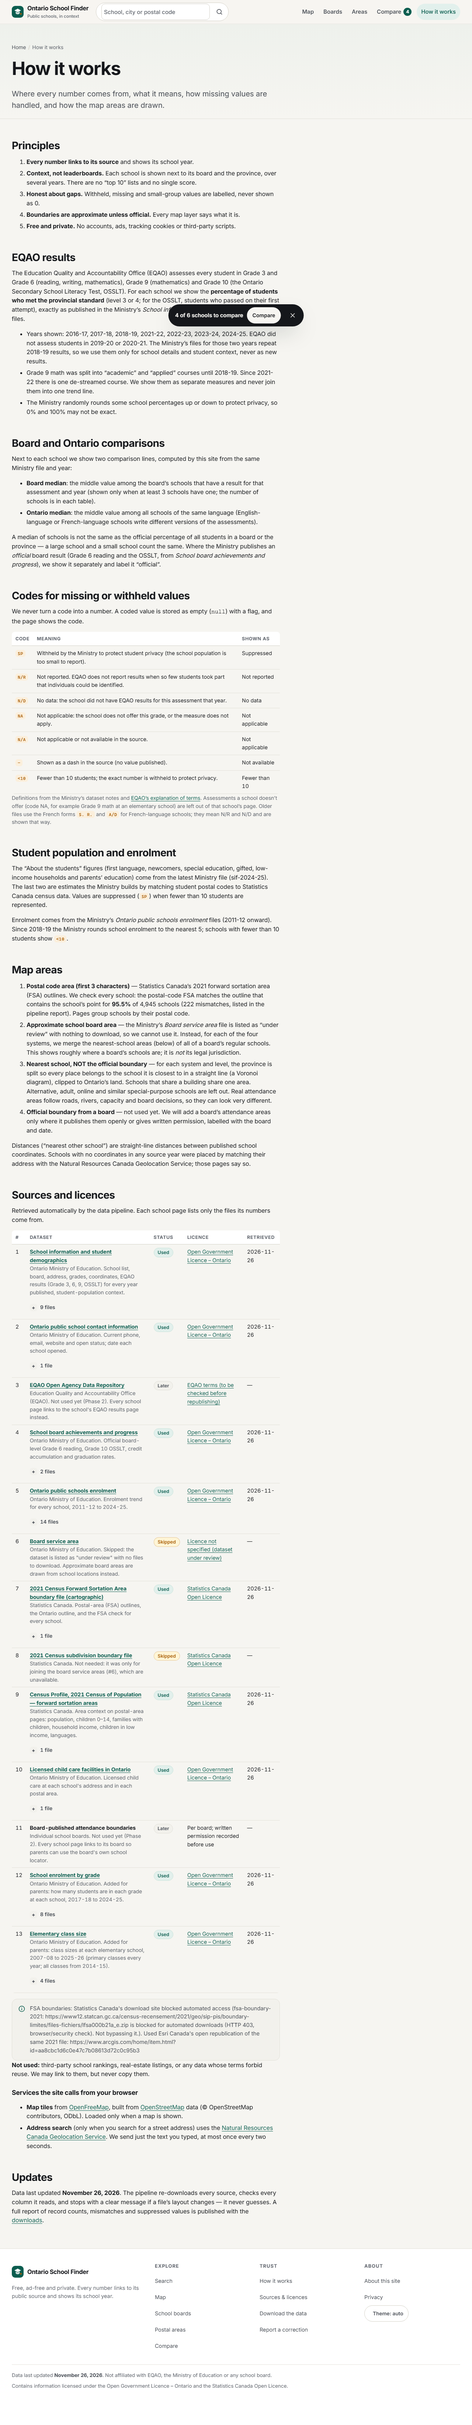
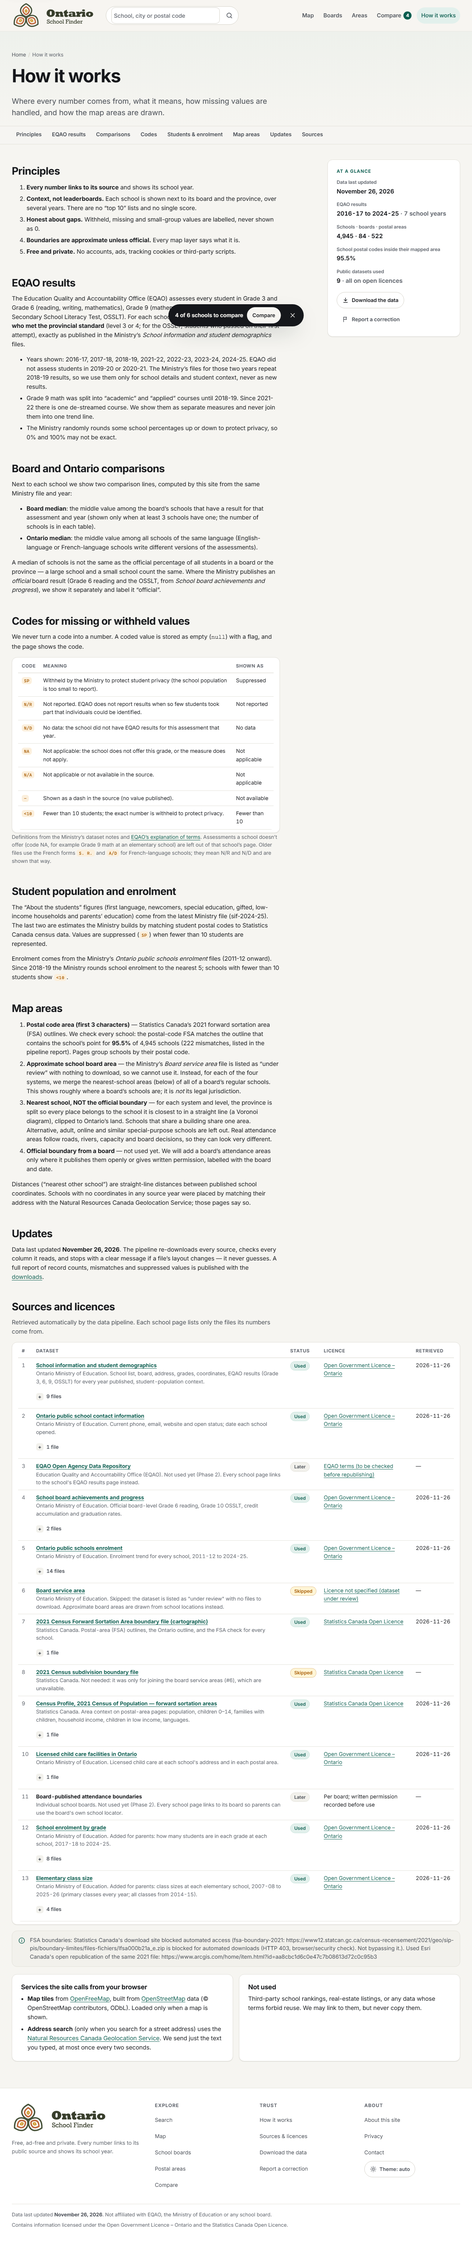
Same layout for How it works, About, Data, Corrections, Search and 404 (#8)
How it works, About, Data, Corrections, Search and 404 brought to the same layout: reading column with an at-a-glance card, section nav, full-width tables, who-fixes-what cards, list beside a sticky map.

diff --git a/site/templates/methodology.html b/site/templates/methodology.html
@@ -6,8 +6,22 @@
   <h1>How it works</h1>
   <p class="lede" style="margin:0">Where every number comes from, what it means, how missing values are handled, and how the map areas are drawn.</p>
 </div></div>
-<div class="wrap">
-<div class="prose">
+
+<nav class="subnav" aria-label="On this page">
+  <div class="wrap">
+    <a href="#principles">Principles</a>
+    <a href="#eqao">EQAO results</a>
+    <a href="#medians">Comparisons</a>
+    <a href="#codes">Codes</a>
+    <a href="#context">Students &amp; enrolment</a>
+    <a href="#boundaries">Map areas</a>
+    <a href="#updates">Updates</a>
+    <a href="#sources">Sources</a>
+  </div>
+</nav>
+
+<div class="wrap doc">
+<div class="prose doc-main">
 <h2 id="principles">Principles</h2>
 <ol>
   <li><strong>Every number links to its source</strong> and shows its school year.</li>
@@ -35,10 +49,10 @@
 
 <h2 id="codes">Codes for missing or withheld values</h2>
 <p>We never turn a code into a number. A coded value is stored as empty (<code>null</code>) with a flag, and the page shows the code.</p>
-<div class="table-wrap"><table>
+<div class="card card-table"><div class="table-wrap"><table>
   <thead><tr><th scope="col">Code</th><th scope="col">Meaning</th><th scope="col">Shown as</th></tr></thead>
   <tbody>{% for k, c in codes %}<tr><td><span class="code">{{ k }}</span></td><td>{{ c.explain }}</td><td>{{ c.label }}</td></tr>{% endfor %}</tbody>
-</table></div>
+</table></div></div>
 <p class="small muted">Definitions from the Ministry’s dataset notes and <a href="https://www.eqao.com/explanation-of-terms/" rel="noopener">EQAO’s explanation of terms</a>. Assessments a school doesn’t offer (code NA, for example Grade 9 math at an elementary school) are left out of that school’s page. Older files use the French forms <span class="code">S. R.</span> and <span class="code">A/D</span> for French-language schools; they mean N/R and N/D and are shown that way.</p>
 
 <h2 id="context">Student population and enrolment</h2>
@@ -54,32 +68,61 @@
 </ol>
 <p>Distances (“nearest other school”) are straight-line distances between published school coordinates. Schools with no coordinates in any source year were placed by matching their address with the Natural Resources Canada Geolocation Service; those pages say so.</p>
 
-<h2 id="sources">Sources and licences</h2>
-<p>Retrieved automatically by the data pipeline. Each school page lists only the files its numbers come from.</p>
-<div class="table-wrap"><table class="stack-table">
-  <thead><tr><th scope="col">#</th><th scope="col">Dataset</th><th scope="col">Status</th><th scope="col">Licence</th><th scope="col">Retrieved</th></tr></thead>
-  <tbody>
-  {% for d in datasets %}
-    <tr id="dataset-{{ d.key }}"><td class="tnum">{{ d.brief_no }}</td>
-      <td><strong>{% if d.landing %}<a href="{{ d.landing }}" rel="noopener">{{ d.title }}</a>{% else %}{{ d.title }}{% endif %}</strong><div class="small muted">{{ d.publisher }}. {{ d.used_for }}</div>
-        {% if d.files %}<details class="data-table"><summary>{{ d.files|length }} file{{ "" if d.files|length == 1 else "s" }}</summary><ul class="small">{% for f in d.files %}<li><a href="{{ f.url }}" rel="noopener">{{ f.source_id }}</a>{% if f.year %} — {{ f.year }}{% endif %}{% if f.retrieved %}, retrieved {{ f.retrieved }}{% endif %}{% if f.note %}. {{ f.note }}{% endif %}</li>{% endfor %}</ul></details>{% endif %}</td>
-      <td data-label="Status">{% if d.status == "used" %}<span class="badge badge-brand">Used</span>{% elif d.status == "skipped" %}<span class="badge badge-warn">Skipped</span>{% else %}<span class="badge">Later</span>{% endif %}</td>
-      <td data-label="Licence">{% if d.licence_url %}<a href="{{ d.licence_url }}" rel="noopener">{{ d.licence }}</a>{% else %}{{ d.licence }}{% endif %}</td>
-      <td class="tnum" data-label="Retrieved">{{ d.retrieved or "—" }}</td></tr>
-  {% endfor %}
-  </tbody>
-</table></div>
-{% if meta.notes %}<div class="note" style="margin-top:16px">{{ icon("info") }}<div>{% for n in meta.notes %}<p>{{ n }}</p>{% endfor %}</div></div>{% endif %}
-<p><strong>Not used:</strong> third-party school rankings, real-estate listings, or any data whose terms forbid reuse. We may link to them, but never copy them.</p>
-
-<h3 id="services">Services the site calls from your browser</h3>
-<ul>
-  <li><strong>Map tiles</strong> from <a href="https://openfreemap.org/" rel="noopener">OpenFreeMap</a>, built from <a href="https://www.openstreetmap.org/copyright" rel="noopener">OpenStreetMap</a> data (© OpenStreetMap contributors, ODbL). Loaded only when a map is shown.</li>
-  <li><strong>Address search</strong> (only when you search for a street address) uses the <a href="https://natural-resources.canada.ca/maps-tools-and-publications/maps/geolocation-service" rel="noopener">Natural Resources Canada Geolocation Service</a>. We send just the text you typed, at most once every two seconds.</li>
-</ul>
-
 <h2 id="updates">Updates</h2>
 <p>Data last updated <strong>{{ meta.data_updated_human }}</strong>. The pipeline re-downloads every source, checks every column it reads, and stops with a clear message if a file’s layout changes — it never guesses. A full report of record counts, mismatches and suppressed values is published with the <a href="/data/">downloads</a>.</p>
 </div>
+
+<aside class="doc-aside" aria-label="At a glance">
+  <div class="card glance-card">
+    <p class="eyebrow">At a glance</p>
+    <dl class="glance">
+      <div><dt>Data last updated</dt><dd>{{ meta.data_updated_human }}</dd></div>
+      <div><dt>EQAO results</dt><dd>{{ meta.eqao_years[0] }} to {{ meta.eqao_years[-1] }} <span class="muted">· {{ meta.eqao_years|length }} school years</span></dd></div>
+      <div><dt>Schools · boards · postal areas</dt><dd>{{ "{:,}".format(meta.counts.schools) }} · {{ meta.counts.boards }} · {{ meta.counts.fsas }}</dd></div>
+      <div><dt>School postal codes inside their mapped area</dt><dd>{{ fsa_check_rate }}</dd></div>
+      <div><dt>Public datasets used</dt><dd>{{ datasets|selectattr("status", "equalto", "used")|list|length }} <span class="muted">· all on open licences</span></dd></div>
+    </dl>
+    <div class="doc-actions">
+      <a class="btn btn-sm" href="/data/">{{ icon("download") }}Download the data</a>
+      <a class="btn btn-sm btn-ghost" href="/corrections/">{{ icon("flag") }}Report a correction</a>
+    </div>
+  </div>
+</aside>
 </div>
+
+<section class="block" id="sources">
+  <div class="wrap">
+    <h2>Sources and licences</h2>
+    <p class="block-intro">Retrieved automatically by the data pipeline. Each school page lists only the files its numbers come from.</p>
+    <div class="card card-table">
+    <div class="table-wrap"><table class="stack-table src-table">
+      <thead><tr><th scope="col">#</th><th scope="col">Dataset</th><th scope="col">Status</th><th scope="col">Licence</th><th scope="col">Retrieved</th></tr></thead>
+      <tbody>
+      {% for d in datasets %}
+        <tr id="dataset-{{ d.key }}"><td class="tnum">{{ d.brief_no }}</td>
+          <td><strong>{% if d.landing %}<a href="{{ d.landing }}" rel="noopener">{{ d.title }}</a>{% else %}{{ d.title }}{% endif %}</strong><div class="small muted">{{ d.publisher }}. {{ d.used_for }}</div>
+            {% if d.files %}<details class="data-table"><summary>{{ d.files|length }} file{{ "" if d.files|length == 1 else "s" }}</summary><ul class="small">{% for f in d.files %}<li><a href="{{ f.url }}" rel="noopener">{{ f.source_id }}</a>{% if f.year %} — {{ f.year }}{% endif %}{% if f.retrieved %}, retrieved {{ f.retrieved }}{% endif %}{% if f.note %}. {{ f.note }}{% endif %}</li>{% endfor %}</ul></details>{% endif %}</td>
+          <td data-label="Status">{% if d.status == "used" %}<span class="badge badge-brand">Used</span>{% elif d.status == "skipped" %}<span class="badge badge-warn">Skipped</span>{% else %}<span class="badge">Later</span>{% endif %}</td>
+          <td data-label="Licence">{% if d.licence_url %}<a href="{{ d.licence_url }}" rel="noopener">{{ d.licence }}</a>{% else %}{{ d.licence }}{% endif %}</td>
+          <td class="tnum nowrap" data-label="Retrieved">{{ d.retrieved or "—" }}</td></tr>
+      {% endfor %}
+      </tbody>
+    </table></div>
+    </div>
+    {% if meta.notes %}<div class="note" style="margin-top:16px">{{ icon("info") }}<div>{% for n in meta.notes %}<p>{{ n }}</p>{% endfor %}</div></div>{% endif %}
+    <div class="grid grid-2" style="margin-top:20px">
+      <div class="card">
+        <h3 id="services">Services the site calls from your browser</h3>
+        <ul class="plain-list">
+          <li><strong>Map tiles</strong> from <a href="https://openfreemap.org/" rel="noopener">OpenFreeMap</a>, built from <a href="https://www.openstreetmap.org/copyright" rel="noopener">OpenStreetMap</a> data (© OpenStreetMap contributors, ODbL). Loaded only when a map is shown.</li>
+          <li><strong>Address search</strong> (only when you search for a street address) uses the <a href="https://natural-resources.canada.ca/maps-tools-and-publications/maps/geolocation-service" rel="noopener">Natural Resources Canada Geolocation Service</a>. We send just the text you typed, at most once every two seconds.</li>
+        </ul>
+      </div>
+      <div class="card">
+        <h3>Not used</h3>
+        <p style="margin:0">Third-party school rankings, real-estate listings, or any data whose terms forbid reuse. We may link to them, but never copy them.</p>
+      </div>
+    </div>
+  </div>
+</section>
 {% endblock %}

diff --git a/site/templates/corrections.html b/site/templates/corrections.html
@@ -6,20 +6,33 @@
   <h1>Report a correction</h1>
   <p class="lede" style="margin:0">Thank you for helping keep this accurate. Here is who can fix what.</p>
 </div></div>
-<div class="wrap"><div class="prose">
-  <div class="card" data-correction-school hidden style="margin:24px 0"></div>
-  <h2>School name, address, phone, website or grades</h2>
-  <p>These come from school boards through the Ministry of Education’s school list. Please contact the <strong>school board</strong> (each school page links to it). Changes appear here after the Ministry publishes its next list and the site is rebuilt.</p>
-  <h2>EQAO results</h2>
-  <p>Results are published by <a href="https://www.eqao.com/" rel="noopener">EQAO</a> and the Ministry. If a number here differs from the school’s report on EQAO’s site for the same year, that is our mistake — please tell us.</p>
-  <h2>Something this site got wrong</h2>
-  {% if corrections_url or contact_email %}
-  <p>{% if corrections_url %}<a class="btn btn-primary" href="{{ corrections_url }}" rel="noopener" data-correction-link>{{ icon("flag") }}Open a correction request</a>{% endif %}
-     {% if contact_email %}<a class="btn" href="mailto:{{ contact_email }}?subject=Correction" data-correction-mail>{{ icon("mail") }}Email {{ contact_email }}</a>{% endif %}</p>
-  <p class="small muted">Please include the school’s name or number (BSID), what is wrong, and where you saw the right value.</p>
-  {% else %}
-  <p>A public correction form is being set up. Until then, please send corrections about school details to the school board, and about results to EQAO.</p>
-  {% endif %}
-</div></div>
+<section class="block"><div class="wrap">
+  <div class="card" data-correction-school hidden style="margin:0 0 20px;max-width:760px"></div>
+  <div class="grid grid-3 fix-grid">
+    <div class="card">
+      <h2 class="card-title">{{ icon("building", "card-ic") }}School name, address, phone, website or grades</h2>
+      <p>These come from school boards through the Ministry of Education’s school list. Changes appear here after the Ministry publishes its next list and the site is rebuilt.</p>
+      <p class="fix-who"><span class="muted">Who fixes it:</span> <strong>the school board</strong>. Each school page links to its board.</p>
+    </div>
+    <div class="card">
+      <h2 class="card-title">{{ icon("check", "card-ic") }}EQAO results</h2>
+      <p>Results are published by <a href="https://www.eqao.com/" rel="noopener">EQAO</a> and the Ministry. If a number here differs from the school’s report on EQAO’s site for the same year, that is our mistake — please tell us.</p>
+      <p class="fix-who"><span class="muted">Who fixes it:</span> <strong>EQAO</strong> for their report, <strong>us</strong> if this site differs from it.</p>
+    </div>
+    <div class="card fix-us">
+      <h2 class="card-title">{{ icon("flag", "card-ic") }}Something this site got wrong</h2>
+      {% if corrections_url or contact_email %}
+      <p>Please include the school’s name or number (BSID), what is wrong, and where you saw the right value.</p>
+      <div class="doc-actions">
+        {% if corrections_url %}<a class="btn btn-primary" href="{{ corrections_url }}" rel="noopener" data-correction-link>{{ icon("flag") }}Open a correction request</a>{% endif %}
+        {% if contact_email %}<a class="btn" href="mailto:{{ contact_email }}?subject=Correction" data-correction-mail>{{ icon("mail") }}Email {{ contact_email }}</a>{% endif %}
+      </div>
+      {% else %}
+      <p>A public correction form is being set up. Until then, please send corrections about school details to the school board, and about results to EQAO.</p>
+      {% endif %}
+      <p class="fix-who"><span class="muted">Who fixes it:</span> <strong>us</strong>, quickly.</p>
+    </div>
+  </div>
+</div></section>
 {% endblock %}
 {% block scripts %}<script type="module" src="{{ asset('js/corrections.js') }}"></script>{% endblock %}

diff --git a/site/templates/data.html b/site/templates/data.html
@@ -7,23 +7,32 @@
   <p class="lede" style="margin:0">Open data in, open data out. Everything on this site is available as CSV and JSON, with a source id on every row.</p>
 </div></div>
 <section class="block"><div class="wrap">
-  <div class="grid grid-2">
+  <div class="grid grid-4">
     {% for d in downloads %}
-    <a class="card" href="{{ d.href }}" download style="text-decoration:none;color:inherit">
+    <a class="card download-card" href="{{ d.href }}" download style="text-decoration:none;color:inherit">
       <h3>{{ icon("download", "card-ic") }}{{ d.title }}</h3>
-      <p class="muted" style="margin:0 0 6px">{{ d.desc }}</p>
+      <p class="muted" style="margin:0 0 10px">{{ d.desc }}</p>
       <span class="badge">{{ d.size }}</span>
     </a>
     {% endfor %}
   </div>
-  <div class="prose" style="margin-top:32px">
-    <h2>Licence and attribution</h2>
-    <p>The source data is published under the <a href="https://www.ontario.ca/page/open-government-licence-ontario" rel="noopener">Open Government Licence – Ontario</a> and the <a href="https://www.statcan.gc.ca/en/reference/licence" rel="noopener">Statistics Canada Open Licence</a>. If you reuse these files, please keep the source ids and include:</p>
-    <pre style="white-space:pre-wrap;background:var(--surface);border:1px solid var(--line);border-radius:var(--r-1);padding:14px;font-size:.85rem">Contains information licensed under the Open Government Licence – Ontario.
+
+  <div class="doc" style="margin-top:40px">
+    <div class="prose doc-main">
+      <h2 id="licence">Licence and attribution</h2>
+      <p>The source data is published under the <a href="https://www.ontario.ca/page/open-government-licence-ontario" rel="noopener">Open Government Licence – Ontario</a> and the <a href="https://www.statcan.gc.ca/en/reference/licence" rel="noopener">Statistics Canada Open Licence</a>. If you reuse these files, please keep the source ids and include the attribution text in the box.</p>
+      <p>Each row’s <code>source_id</code> matches a line in <code>sources.csv</code>, which lists the original URL, licence and retrieval date. Coded values (suppressed, not reported, not applicable) are empty with a <code>code</code> column — never 0. See <a href="/methodology/">How it works</a>.</p>
+      <p>Per-school JSON files are at <code>/data/schools/&lt;BSID&gt;.json</code>, and the full pipeline report is at <a href="/data/report.md">/data/report.md</a>.</p>
+    </div>
+    <aside class="doc-aside" aria-label="Attribution to include">
+      <div class="card glance-card">
+        <p class="eyebrow">Attribution to include</p>
+        <pre class="attribution" id="attribution">Contains information licensed under the Open Government Licence – Ontario.
 Adapted from Statistics Canada, 2021 Census of Population and 2021 boundary files. This does not constitute an endorsement by Statistics Canada of this product.
 Compiled by Ontario School Finder ({{ site_url }}).</pre>
-    <p>Each row’s <code>source_id</code> matches a line in <code>sources.csv</code>, which lists the original URL, licence and retrieval date. Coded values (suppressed, not reported, not applicable) are empty with a <code>code</code> column — never 0. See <a href="/methodology/">How it works</a>.</p>
-    <p>Per-school JSON files are at <code>/data/schools/&lt;BSID&gt;.json</code>, and the full pipeline report is at <a href="/data/report.md">/data/report.md</a>.</p>
+        <div class="doc-actions"><button class="btn btn-sm" type="button" data-copy="#attribution"><span>Copy the text</span></button></div>
+      </div>
+    </aside>
   </div>
 </div></section>
 {% endblock %}

diff --git a/site/templates/about.html b/site/templates/about.html
@@ -6,19 +6,19 @@
   <h1>About Ontario School Finder</h1>
   <p class="lede" style="margin:0">A free, independent tool that puts Ontario’s public school data in one place, in plain language, with the sources one click away.</p>
 </div></div>
-<div class="wrap"><div class="prose">
-<h2>What this is</h2>
+<div class="wrap doc"><div class="prose doc-main">
+<h2 id="what">What this is</h2>
 <p>Choosing or getting to know a school is a big decision, and the public information about Ontario schools is spread across spreadsheets from several government offices. This site gathers it, cleans it carefully, and shows each school next to its board and the province over time — without ranking anyone.</p>
 <p>It covers every publicly funded school in Ontario: English and French, public and Catholic, elementary and secondary. Private schools are not included because the Ministry does not publish comparable data for them.</p>
 
-<h2>Who runs it</h2>
+<h2 id="who">Who runs it</h2>
 <p>{{ operator }} It is not affiliated with EQAO, the Ministry of Education, any school board, or any real-estate or ranking company.</p>
 {% if contact_email %}
 <h2 id="contact">Contact</h2>
 <p>Questions, ideas or a correction? Email <a href="mailto:{{ contact_email }}?subject=Ontario%20School%20Finder">{{ contact_email }}</a>. For a correction, please include the school’s name or number and where you saw the right value — or start from the school’s own page with “Report a correction”.</p>
 {% endif %}
 
-<h2>Why it’s free</h2>
+<h2 id="free">Why it’s free</h2>
 <p>It is built on open data that taxpayers already paid for, and it costs very little to run: there is no server-side database and no accounts. There are no ads and there never will be. The cleaned data is <a href="/data/">free to download</a> under the same open licences.</p>
 
 <h2 id="privacy">Privacy</h2>
@@ -31,7 +31,26 @@
   <li>Our web server keeps standard short-lived access logs (IP address, page, time) for security and reliability. We don’t sell or share them.</li>
 </ul>
 
-<h2>Corrections</h2>
+<h2 id="corrections">Corrections</h2>
 <p>Found something wrong? See <a href="/corrections/">how to report a correction</a>{% if contact_email %} or email <a href="mailto:{{ contact_email }}?subject=Correction">{{ contact_email }}</a>{% endif %}. School contact details come from school boards; results come from EQAO and the Ministry. We fix our own mistakes quickly and pass source errors on to the right office.</p>
-</div></div>
+</div>
+
+<aside class="doc-aside" aria-label="At a glance">
+  <div class="card glance-card">
+    <p class="eyebrow">At a glance</p>
+    <ul class="isnt">
+      <li class="yes">{{ icon("check") }}<span>Free, with no ads and no accounts</span></li>
+      <li class="yes">{{ icon("check") }}<span>No tracking cookies or analytics</span></li>
+      <li class="yes">{{ icon("check") }}<span>Every number links to its public source</span></li>
+      <li class="yes">{{ icon("check") }}<span>No rankings and no single score</span></li>
+      <li class="yes">{{ icon("check") }}<span>All {{ "{:,}".format(meta.counts.schools) }} publicly funded schools, English and French</span></li>
+    </ul>
+    <div class="doc-actions">
+      <a class="btn btn-sm" href="/methodology/">{{ icon("info") }}How it works</a>
+      <a class="btn btn-sm" href="/data/">{{ icon("download") }}Download the data</a>
+      {% if contact_email %}<a class="btn btn-sm btn-ghost" href="mailto:{{ contact_email }}?subject=Ontario%20School%20Finder">{{ icon("mail") }}Email us</a>{% endif %}
+    </div>
+  </div>
+</aside>
+</div>
 {% endblock %}

diff --git a/site/static/css/app.css b/site/static/css/app.css
@@ -684,3 +684,46 @@ a.card:hover { border-color: var(--brand-soft); box-shadow: var(--shadow-2); tra
   .az { display: none !important; }
   .school-list.is-az { columns: 2; }
 }
+
+/* ---------- text pages (How it works, About, Data): a readable column plus an "at a glance" card ---------- */
+.doc { display: grid; gap: 28px 56px; }
+@media (min-width: 1100px) {
+  .doc { grid-template-columns: minmax(0, 72ch) minmax(280px, 360px); justify-content: space-between; align-items: start; }
+  .doc-aside { position: sticky; top: calc(var(--header-h) + 20px); margin-top: 2.6em; }
+  .subnav ~ .doc .doc-aside { top: calc(var(--header-h) + 68px); }
+}
+.glance-card .eyebrow { margin-bottom: 12px; }
+.glance { display: grid; gap: 14px; margin: 0 0 18px; }
+.glance div { min-width: 0; }
+.glance dt { color: var(--ink-3); font-size: .8rem; font-weight: 600; }
+.glance dd { margin: 2px 0 0; font-weight: 650; font-variant-numeric: tabular-nums; }
+.glance-card .isnt { margin-bottom: 18px; font-size: .95rem; }
+.doc-actions { display: flex; flex-wrap: wrap; gap: 8px; }
+.card-table { padding: 4px 16px 8px; }
+.nowrap { white-space: nowrap; }
+.src-table td:first-child { color: var(--ink-3); width: 2.5em; }
+.plain-list { padding-left: 1.1em; margin: 0; }
+.plain-list li + li { margin-top: 8px; }
+.attribution { white-space: pre-wrap; overflow-wrap: anywhere; background: var(--surface-2); border: 1px solid var(--line); border-radius: var(--r-1); padding: 12px 14px; font: .8rem/1.55 var(--mono); margin: 0 0 14px; }
+
+/* Report a correction: who can fix what, side by side */
+.fix-grid .card { display: flex; flex-direction: column; }
+.card-title { display: flex; gap: 10px; align-items: flex-start; font-size: 1.1rem; }
+.card-title .card-ic { flex: none; margin: 1px 0 0; }
+.fix-who { margin: auto 0 0; padding-top: 12px; border-top: 1px solid var(--line); font-size: .9rem; }
+.fix-us { border-color: var(--brand-soft); box-shadow: 0 0 0 3px var(--brand-tint), var(--shadow-1); }
+
+/* search results: the list beside a sticky map on wide screens */
+.results-layout { display: grid; gap: 16px; }
+.results-map .map { height: clamp(260px, 40vh, 420px); }
+@media (min-width: 1100px) {
+  .results-layout { grid-template-columns: minmax(0, 1fr) minmax(420px, .9fr); align-items: start; gap: 20px; }
+  .results-map { grid-column: 2; grid-row: 1; position: sticky; top: calc(var(--header-h) + 16px); }
+  .results-map .map { height: min(calc(100dvh - var(--header-h) - 40px), 760px); }
+  .results-list { grid-column: 1; grid-row: 1; }
+}
+.fix-grid .doc-actions { margin-bottom: 14px; }
+@media (max-width: 640px) {
+  .src-table td:first-child { font-size: .8rem; font-weight: 600; }
+  .src-table td:first-child::before { content: "#"; }
+}

diff --git a/site/static/js/search-page.js b/site/static/js/search-page.js
@@ -46,9 +46,13 @@ function render(extraTop = "") {
       ${base.some((r) => r.lang === "F") ? chipGroup("lang", "Language", [["all", "English and French"], ["E", "English"], ["F", "French"]]) : ""}
       ${sysOpts.length > 2 ? chipGroup("sys", "System", sysOpts) : ""}
     </div>
-    <div class="map-shell" style="margin-bottom:16px"><div class="map" data-map="results" style="height:clamp(260px,40vh,420px)" aria-label="Map of these results"></div><div class="map-fallback" data-map-fallback><div>Map loads with JavaScript.</div></div></div>
-    <div class="card" style="padding:4px 16px"><ul class="list">${rows.slice(0, shown).map((r) => schoolRow(r, { distance: distances?.get(r.id) })).join("")}</ul></div>
-    ${rows.length > shown ? `<p style="text-align:center;margin-top:16px"><button class="btn" type="button" data-more>Show ${Math.min(30, rows.length - shown)} more</button></p>` : ""}` : ""}`;
+    <div class="results-layout">
+      <div class="map-shell results-map"><div class="map" data-map="results" aria-label="Map of these results"></div><div class="map-fallback" data-map-fallback><div>Map loads with JavaScript.</div></div></div>
+      <div class="results-list">
+        <div class="card" style="padding:4px 16px"><ul class="list">${rows.slice(0, shown).map((r) => schoolRow(r, { distance: distances?.get(r.id) })).join("")}</ul></div>
+        ${rows.length > shown ? `<p style="text-align:center;margin-top:16px"><button class="btn" type="button" data-more>Show ${Math.min(30, rows.length - shown)} more</button></p>` : ""}
+      </div>
+    </div>` : ""}`;
   for (const b of qsa("[data-f]", root)) {
     b.addEventListener("click", () => {
       filters[b.dataset.f] = b.dataset.v;

diff --git a/site/static/js/app.js b/site/static/js/app.js
@@ -132,3 +132,24 @@ window.addEventListener("afterprint", () => {
   printOpened.forEach((d) => (d.open = false));
   printOpened = [];
 });
+
+// ---- copy buttons: <button data-copy="#id"> copies that element's text ----------
+document.addEventListener("click", async (e) => {
+  const b = e.target.closest("[data-copy]");
+  if (!b) return;
+  const src = document.querySelector(b.dataset.copy);
+  const label = b.querySelector("span");
+  if (!src) return;
+  try {
+    await navigator.clipboard.writeText(src.textContent.trim());
+    if (label) label.textContent = "Copied";
+  } catch {
+    // no clipboard permission: select the text so the visitor can copy it themselves
+    const r = document.createRange();
+    r.selectNodeContents(src);
+    getSelection().removeAllRanges();
+    getSelection().addRange(r);
+    if (label) label.textContent = "Selected: press copy";
+  }
+  setTimeout(() => label && (label.textContent = "Copy the text"), 2500);
+});

diff --git a/tests/e2e/site.spec.js b/tests/e2e/site.spec.js
@@ -247,7 +247,7 @@ test.describe("privacy and robustness", () => {
 test.describe("phone (390px)", () => {
   test.use({ viewport: { width: 390, height: 844 }, deviceScaleFactor: 2, isMobile: true, hasTouch: true });
 
-  for (const url of ["/", `/school/${SCHOOL}/`, `/fsa/${FSA}/`, "/board/B28010/", "/compare/", "/map/", "/methodology/", "/search/?q=Toronto", "/areas/", "/boards/"]) {
+  for (const url of ["/", `/school/${SCHOOL}/`, `/fsa/${FSA}/`, "/board/B28010/", "/compare/", "/map/", "/methodology/", "/search/?q=Toronto", "/areas/", "/boards/", "/about/", "/data/", `/corrections/?school=${SCHOOL}`, "/404.html"]) {
     test(`no horizontal scroll and 44px tap targets on ${url}`, async ({ page }) => {
       await page.goto(url);
       await page.waitForLoadState("networkidle");

diff --git a/site/templates/boards.html b/site/templates/boards.html
@@ -9,7 +9,7 @@
 <section class="block"><div class="wrap">
   {% for g in groups %}
   <h2 style="display:flex;gap:10px;align-items:center;flex-wrap:wrap;margin-top:28px">{{ sysbadge(g.system, g.label) }} <span>{{ g.boards|length }} board{{ "" if g.boards|length == 1 else "s" }}</span></h2>
-  <div class="cols">{% for b in g.boards %}<a href="/board/{{ b.number }}/">{{ b.name }} <span>{{ b.count }} schools</span></a>{% endfor %}</div>
+  <div class="cols">{% for b in g.boards %}<a href="/board/{{ b.number }}/">{{ b.name }} <span>{{ b.count }} school{{ "" if b.count == 1 else "s" }}</span></a>{% endfor %}</div>
   {% endfor %}
 </div></section>
 {% endblock %}

diff --git a/site/templates/404.html b/site/templates/404.html
@@ -14,5 +14,11 @@
     </form>
     <div class="suggest" id="nq-list" role="listbox" hidden></div>
   </div>
+  <nav class="chips" aria-label="Or browse" style="justify-content:center;margin-top:20px">
+    <a class="chip" href="/map/">{{ icon("map", "card-ic") }}Map</a>
+    <a class="chip" href="/boards/">{{ icon("building", "card-ic") }}School boards</a>
+    <a class="chip" href="/areas/">{{ icon("pin", "card-ic") }}Postal areas</a>
+    <a class="chip" href="/methodology/">{{ icon("info", "card-ic") }}How it works</a>
+  </nav>
 </section>
 {% endblock %}
